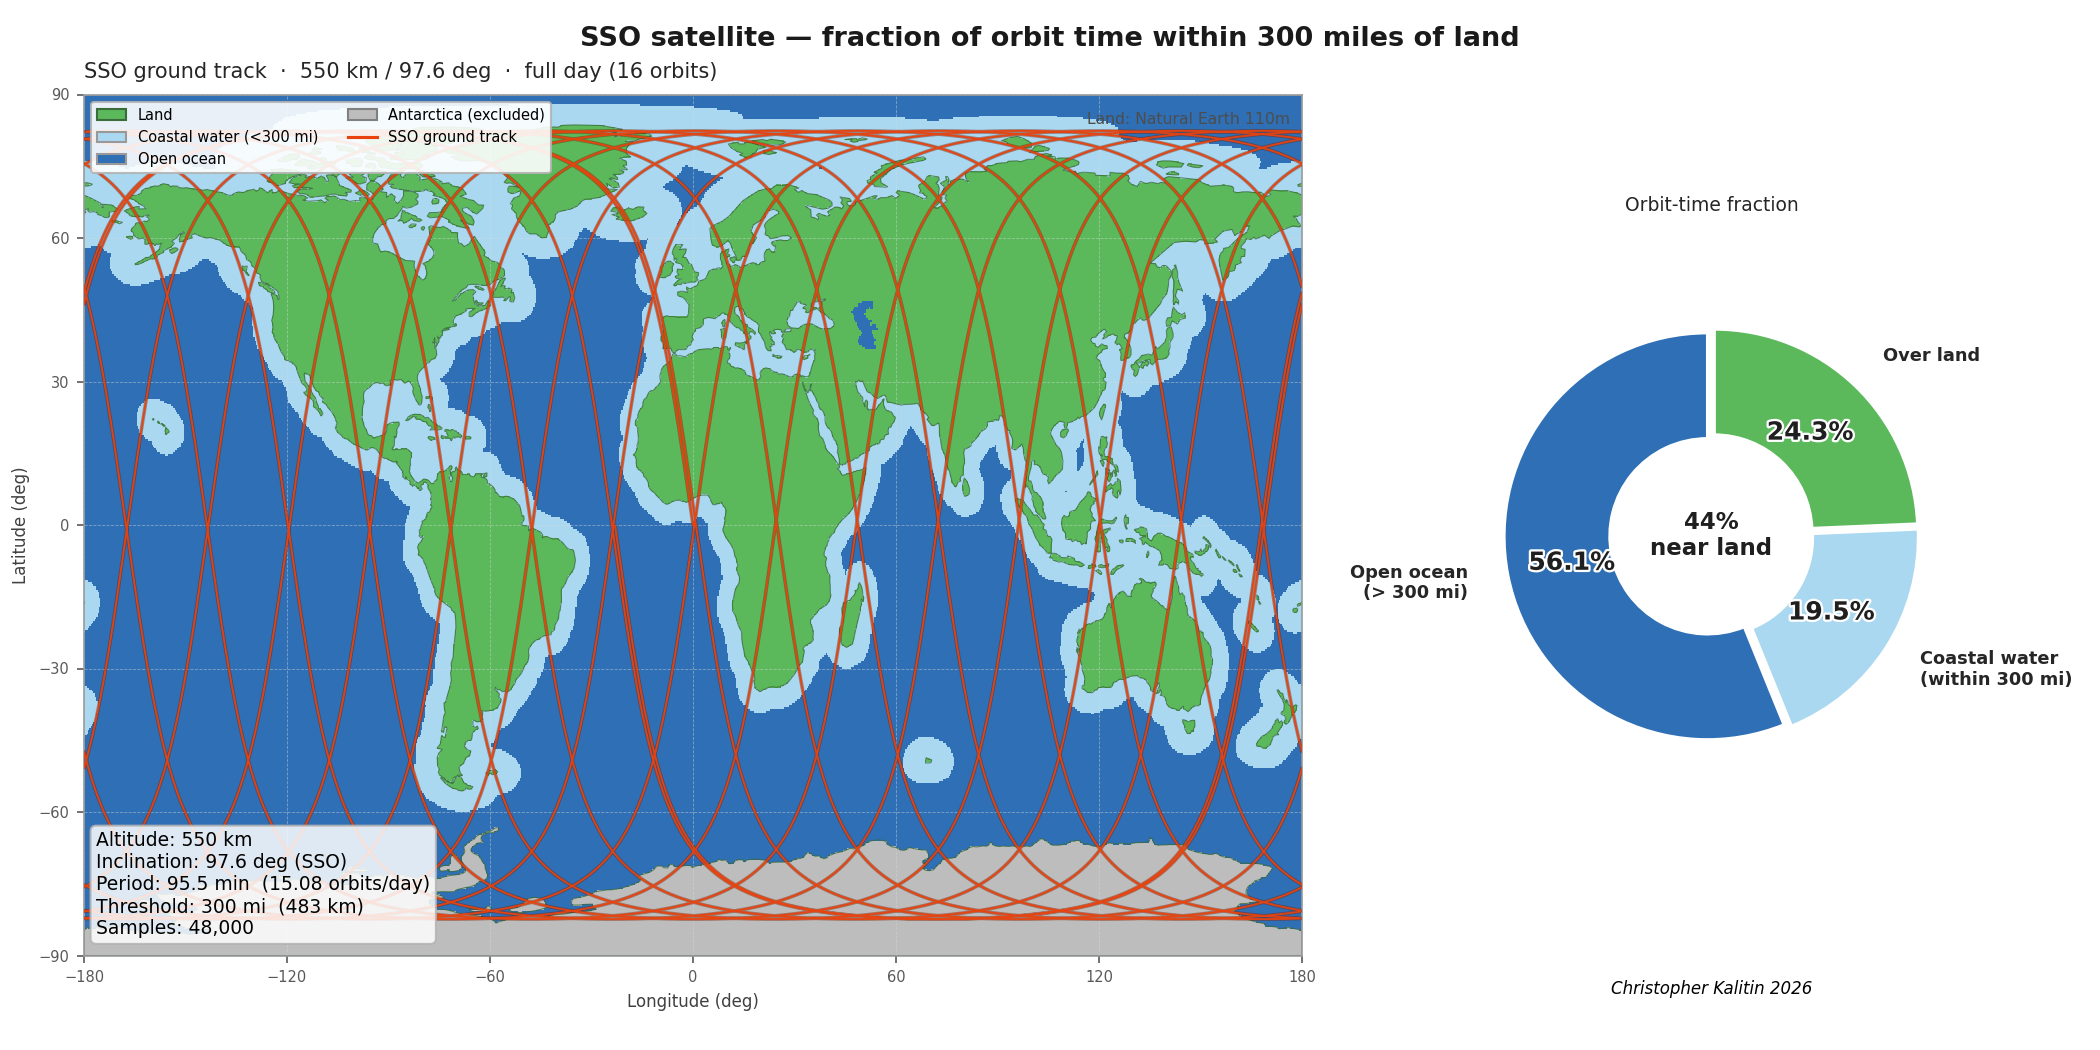
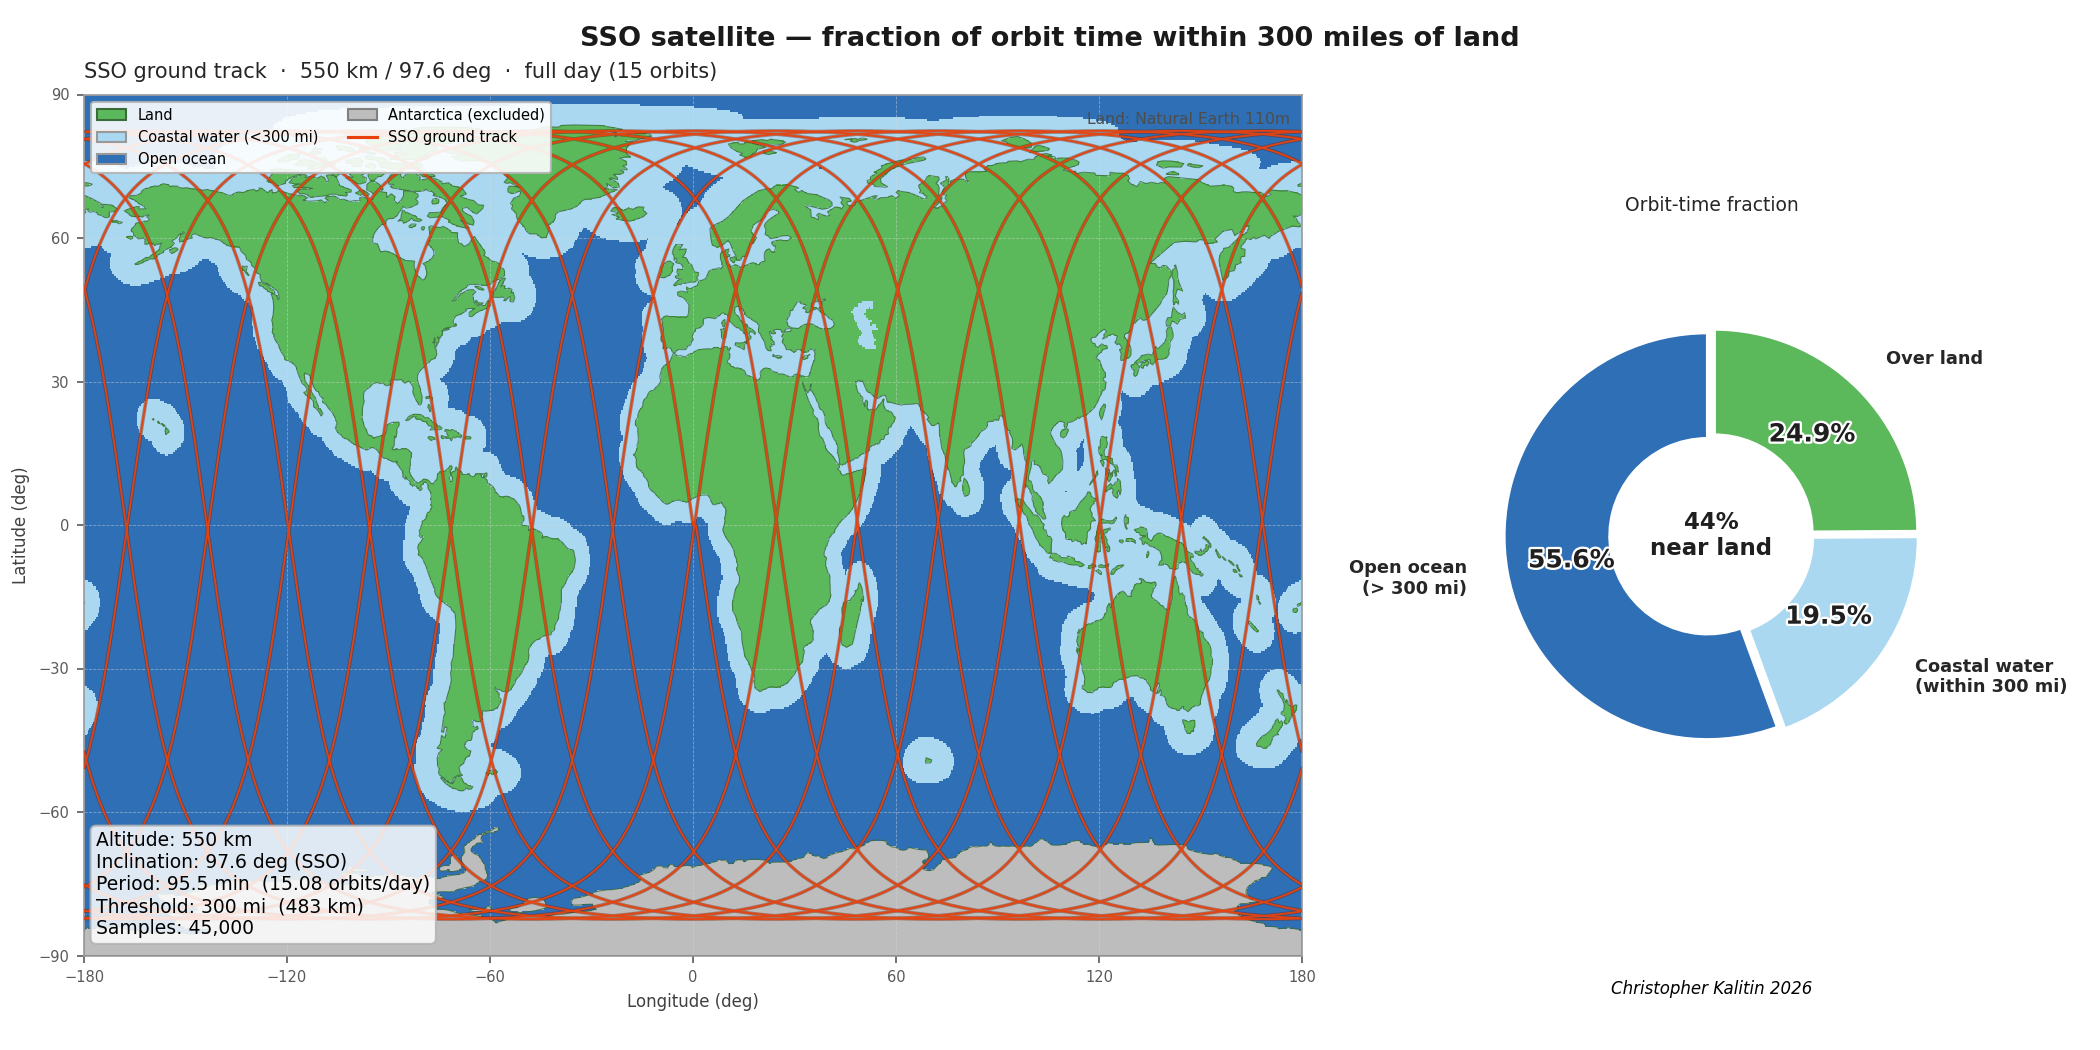
now to write

diff --git a/Reflect-Orbital/make_sources_xlsx.py b/Reflect-Orbital/make_sources_xlsx.py
@@ -1,0 +1,192 @@
+from openpyxl import Workbook
+from openpyxl.styles import Font, PatternFill, Alignment, Border, Side
+from openpyxl.utils import get_column_letter
+
+HEADER_BG   = "1F4E79"
+CAT_COLORS  = {
+    "Launch Cost":                    "D6E4F0",
+    "Starlink Mass & Cost":           "D9EAD3",
+    "Reflect Orbital – Satellite Specs": "FCE5CD",
+    "Reflect Orbital – Mission":      "EAD1DC",
+    "Data Quality Notes":             "F3F3F3",
+}
+LINK_FONT   = Font(color="1155CC", underline="single", name="Arial", size=9)
+PLAIN_FONT  = Font(name="Arial", size=9)
+HEADER_FONT = Font(bold=True, color="FFFFFF", name="Arial", size=10)
+
+data = [
+    ("Launch Cost", "F9 dedicated list price: $74M, 22,800 kg → $3,246/kg",
+     "Upper bound. What Reflect actually pays is the rideshare rate.",
+     [("Wikipedia – Falcon 9", "https://en.wikipedia.org/wiki/Falcon_9")]),
+
+    ("Launch Cost", "F9 rideshare (Transporter SSO): $6,000/kg",
+     "What Reflect pays today. Nowack quoted ~$6,500/kg in Monocle interview.",
+     [("Wikipedia – Falcon 9", "https://en.wikipedia.org/wiki/Falcon_9"),
+      ("Monocle – Nowack interview", "https://monocle.com/business/aviation/reflect-orbital-aerospace-startup/")]),
+
+    ("Launch Cost", "F9 internal marginal cost: ~$15M/launch → ~$857/kg",
+     "SpaceX's actual cost. Floor on how cheap F9 could ever get for Reflect.",
+     [("Wikipedia – Falcon 9", "https://en.wikipedia.org/wiki/Falcon_9")]),
+
+    ("Launch Cost", "Starship aspirational: $10M/launch, 150,000 kg → $67/kg",
+     "SpaceX stated target at high cadence. Not achieved. The number that makes Reflect's economics work.",
+     [("SpaceNexus – launch cost economics", "https://spacenexus.us/blog/economics-satellite-launch-cost-per-kilogram")]),
+
+    ("Launch Cost", "Starship conservative near-term: ~$30M/launch → ~$200/kg",
+     "More realistic early operational estimate from analysts.",
+     [("SpaceNexus – launch cost economics", "https://spacenexus.us/blog/economics-satellite-launch-cost-per-kilogram")]),
+
+    ("Starlink Mass & Cost", "v1.0: 260 kg, $200k/unit → $769/kg",
+     "First operational generation. Cost from Quilty Space analyst estimate via SpaceNews.",
+     [("Mass – Skyrocket", "https://space.skyrocket.de/doc_sdat/starlink-v1-0.htm"),
+      ("Cost – SpaceNews", "https://spacenews.com/starlink-soars-spacexs-satellite-internet-surprises-analysts-with-6-6-billion-revenue-projection/")]),
+
+    ("Starlink Mass & Cost", "v1.5: ~305 kg, ~$250k/unit (estimated) → ~$820/kg",
+     "Added laser ISLs. Mass from Teslarati/FCC filing. Cost interpolated — no primary source.",
+     [("Mass – Teslarati", "https://www.teslarati.com/spacex-unveils-next-gen-starlink-v2-mini-satellites-ahead-of-monday-launch/"),
+      ("Mass – Wikipedia Starlink", "https://en.wikipedia.org/wiki/Starlink"),
+      ("Cost – interpolated (no source)", None)]),
+
+    ("Starlink Mass & Cost", "v2 Mini: 800 kg, $800k/unit → $1,000/kg",
+     "Current generation, launched on F9. Cost from Quilty Space via SpaceNews.",
+     [("Mass – Wikipedia Starlink", "https://en.wikipedia.org/wiki/Starlink"),
+      ("Cost – SpaceNews", "https://spacenews.com/starlink-soars-spacexs-satellite-internet-surprises-analysts-with-6-6-billion-revenue-projection/")]),
+
+    ("Starlink Mass & Cost", "v2 full (Starship-only): ~1,250 kg, ~$1M/unit (estimated) → ~$800/kg",
+     "Too large for F9, not yet launched. Mass from Musk statement. Cost estimated — no primary source.",
+     [("Mass – Teslarati", "https://www.teslarati.com/spacex-elon-musk-next-gen-starlink-satellite-details/"),
+      ("Cost – estimate only", None)]),
+
+    ("Starlink Mass & Cost", "v3 (projected): 1,500 kg, $1.2M/unit → $800/kg",
+     "Future generation. Both figures from Quilty Space via SpaceNews.",
+     [("SpaceNews – Quilty Space", "https://spacenews.com/starlink-soars-spacexs-satellite-internet-surprises-analysts-with-6-6-billion-revenue-projection/")]),
+
+    ("Reflect Orbital – Satellite Specs", "Eärendil-1 mirror mass: 16 kg",
+     "Mirror only (Mylar film on deployable booms), not total satellite.",
+     [("Wikipedia – Reflect Orbital", "https://en.wikipedia.org/wiki/Reflect_Orbital"),
+      ("Space.com", "https://www.space.com/orbiting-mirror-boost-solar-power-production")]),
+
+    ("Reflect Orbital – Satellite Specs", "Eärendil-1 total satellite mass: 100 kg",
+     'Full sat incl. bus, propulsion, avionics. From Monocle interview: "100 kg packed into a box the size of a microwave".',
+     [("Monocle – Nowack interview", "https://monocle.com/business/aviation/reflect-orbital-aerospace-startup/"),
+      ("Orbital Today", "https://orbitaltoday.com/2025/07/31/startup-plans-to-beam-sunlight-to-earth-using-space-mirrors/")]),
+
+    ("Reflect Orbital – Satellite Specs", "Eärendil-1 mirror area: 324 m² (18m × 18m)",
+     "Derived. m²/kg = 20.3 (mirror only) / 3.24 (whole satellite).",
+     [("Wikipedia – Reflect Orbital", "https://en.wikipedia.org/wiki/Reflect_Orbital")]),
+
+    ("Reflect Orbital – Satellite Specs", "Future constellation mirror: 54m × 55m (~2,916–3,025 m²)",
+     "Stated goal for production satellites. ~9× more area than Eärendil.",
+     [("Payload Space – Series A", "https://payloadspace.com/reflect-orbital-raises-20m-series-a/"),
+      ("LiveScience", "https://www.livescience.com/space/space-exploration/controversial-startups-plan-to-sell-sunlight-using-giant-mirrors-in-space-would-be-catastrophic-and-horrifying-astronomers-warn")]),
+
+    ("Reflect Orbital – Satellite Specs", "Future constellation satellite total mass: NO PUBLIC DATA",
+     "Estimate: mirror film ~144 kg (9× Eärendil), bus ~200–400 kg → total ~300–500 kg. Treat as unknown.",
+     []),
+
+    ("Reflect Orbital – Mission", "Orbit: SSO, 600–650 km altitude",
+     "Sets ground track geometry and pass duration.",
+     [("Wikipedia – Reflect Orbital", "https://en.wikipedia.org/wiki/Reflect_Orbital")]),
+
+    ("Reflect Orbital – Mission", "Beam diameter on ground: 5 km",
+     "Set by sun's angular diameter (0.53°) projected from altitude. Physics constraint, not a design choice.",
+     [("Wikipedia – Reflect Orbital", "https://en.wikipedia.org/wiki/Reflect_Orbital")]),
+
+    ("Reflect Orbital – Mission", "Target irradiance: 200 W/m²",
+     "Reflect's stated goal for the full constellation. ~20% of midday sun.",
+     [("Monocle – Nowack interview", "https://monocle.com/business/aviation/reflect-orbital-aerospace-startup/")]),
+
+    ("Reflect Orbital – Mission", "Pricing: ~$5,000/hour per satellite",
+     "Nowack's stated figure for lighting customers. Solar farm revenue-share also discussed, no public rate.",
+     [("Futurism", "https://futurism.com/space/fcc-huge-mirror-satellite")]),
+]
+
+quality_notes = [
+    "All Starlink cost figures are analyst estimates (Quilty Space), not SpaceX disclosures. Treat as ±30%.",
+    "Starlink mass figures are well-sourced (FCC filings, NSF launch reports, Wikipedia citing primary sources).",
+    "Reflect total satellite mass (100 kg) comes from one interview — treat as approximate.",
+    "Future constellation satellite mass has no source and must be modeled or assumed.",
+    "F9 rideshare pricing is publicly listed and reliable.",
+    "Starship cost figures are targets, not achieved prices.",
+]
+
+wb = Workbook()
+ws = wb.active
+ws.title = "Sources"
+
+thin = Side(style="thin", color="CCCCCC")
+border = Border(bottom=Side(style="thin", color="CCCCCC"))
+
+# Header row
+headers = ["Category", "Item / Fact", "Notes", "Source 1", "Source 2", "Source 3"]
+for col, h in enumerate(headers, 1):
+    c = ws.cell(row=1, column=col, value=h)
+    c.font = HEADER_FONT
+    c.fill = PatternFill("solid", start_color=HEADER_BG)
+    c.alignment = Alignment(horizontal="center", vertical="center", wrap_text=True)
+
+ws.row_dimensions[1].height = 20
+
+def fill_for(cat):
+    color = CAT_COLORS.get(cat, "FFFFFF")
+    return PatternFill("solid", start_color=color)
+
+def write_link(cell, label, url):
+    cell.value = label
+    if url:
+        cell.hyperlink = url
+        cell.font = LINK_FONT
+    else:
+        cell.font = Font(color="888888", name="Arial", size=9, italic=True)
+    cell.alignment = Alignment(wrap_text=True, vertical="top")
+
+for row_idx, (cat, item, notes, sources) in enumerate(data, start=2):
+    fill = fill_for(cat)
+    vals = [cat, item, notes]
+    for col, v in enumerate(vals, 1):
+        c = ws.cell(row=row_idx, column=col, value=v)
+        c.font = PLAIN_FONT
+        c.fill = fill
+        c.alignment = Alignment(wrap_text=True, vertical="top")
+
+    for src_col, (label, url) in enumerate(sources[:3], start=4):
+        c = ws.cell(row=row_idx, column=src_col)
+        c.fill = fill
+        write_link(c, label, url)
+
+    for src_col in range(len(sources) + 4, 7):
+        c = ws.cell(row=row_idx, column=src_col)
+        c.fill = fill
+
+    ws.row_dimensions[row_idx].height = 40
+
+# Data quality notes section
+note_start = len(data) + 3
+c = ws.cell(row=note_start - 1, column=1, value="Data Quality Notes")
+c.font = Font(bold=True, color="FFFFFF", name="Arial", size=10)
+c.fill = PatternFill("solid", start_color="555555")
+ws.merge_cells(start_row=note_start - 1, start_column=1, end_row=note_start - 1, end_column=6)
+c.alignment = Alignment(horizontal="left", vertical="center")
+ws.row_dimensions[note_start - 1].height = 18
+
+fill_note = fill_for("Data Quality Notes")
+for i, note in enumerate(quality_notes):
+    r = note_start + i
+    c = ws.cell(row=r, column=1, value=note)
+    c.font = PLAIN_FONT
+    c.fill = fill_note
+    c.alignment = Alignment(wrap_text=True, vertical="top")
+    ws.merge_cells(start_row=r, start_column=1, end_row=r, end_column=6)
+    ws.row_dimensions[r].height = 28
+
+# Column widths
+col_widths = [28, 42, 48, 32, 32, 32]
+for col, width in enumerate(col_widths, 1):
+    ws.column_dimensions[get_column_letter(col)].width = width
+
+# Freeze header
+ws.freeze_panes = "A2"
+
+out = "C:/_Dev/charts-and-data-analysis/Reflect-Orbital/sso-land-proximity/data/reflect_orbital_sources.xlsx"
+wb.save(out)
+print(f"Saved: {out}")

diff --git a/Reflect-Orbital/sso-land-proximity/config.py b/Reflect-Orbital/sso-land-proximity/config.py
@@ -32,7 +32,7 @@ SOLAR_STATUS      = {"operating"}
 SOLAR_CASES: list[tuple[float, frozenset]] = [
     (0.0,   frozenset()),
     (100.0, frozenset()),
-    (100.0, frozenset({"China", "Russia"})),
+    (100.0, frozenset({"China"})),
 ]
 
 WATERMARK = "Christopher Kalitin 2026"
@@ -40,7 +40,7 @@ WATERMARK = "Christopher Kalitin 2026"
 # --- Orbital parameters -----------------------------------------------------------------
 ALT_KM      = 550        # satellite altitude
 INC_DEG     = 97.6       # SSO inclination (~97.6 deg for a 550 km sun-synchronous orbit)
-N_ORBITS    = 16         # full sidereal day ~= 15.04 orbits; 16 covers one day + margin
+N_ORBITS    = 15         # full sidereal day ~= 15.04 orbits
 N_PER_ORBIT = 3000       # ground-track time steps per orbit (resolution vs speed)
 
 # --- Analysis threshold -----------------------------------------------------------------

diff --git a/Reflect-Orbital/sso-land-proximity/derived.py b/Reflect-Orbital/sso-land-proximity/derived.py
@@ -128,9 +128,13 @@ def load_land_assets() -> LandAssets:
     def _extract(geom):
         if geom.geom_type == "Polygon":
             pts.extend(geom.exterior.coords)
+            for interior in geom.interiors:   # holes = inland seas / large lakes
+                pts.extend(interior.coords)
         elif geom.geom_type == "MultiPolygon":
             for poly in geom.geoms:
                 pts.extend(poly.exterior.coords)
+                for interior in poly.interiors:
+                    pts.extend(interior.coords)
     _extract(land_geom)
 
     land_arr = np.asarray(pts)                       # (M, 2): lon, lat

diff --git a/Reflect-Orbital/sso-land-proximity/run.py b/Reflect-Orbital/sso-land-proximity/run.py
@@ -19,7 +19,7 @@ from charts.solar_proximity import figures as solar_figures
 from charts.transmission_proximity import figures as transmission_figures
 
 # The transmission chart is produced only for this one case.
-_TRANSMISSION_CASE = (100.0, frozenset({"China", "Russia"}))
+_TRANSMISSION_CASE = (100.0, frozenset({"China"}))
 from viz import render
 
 
